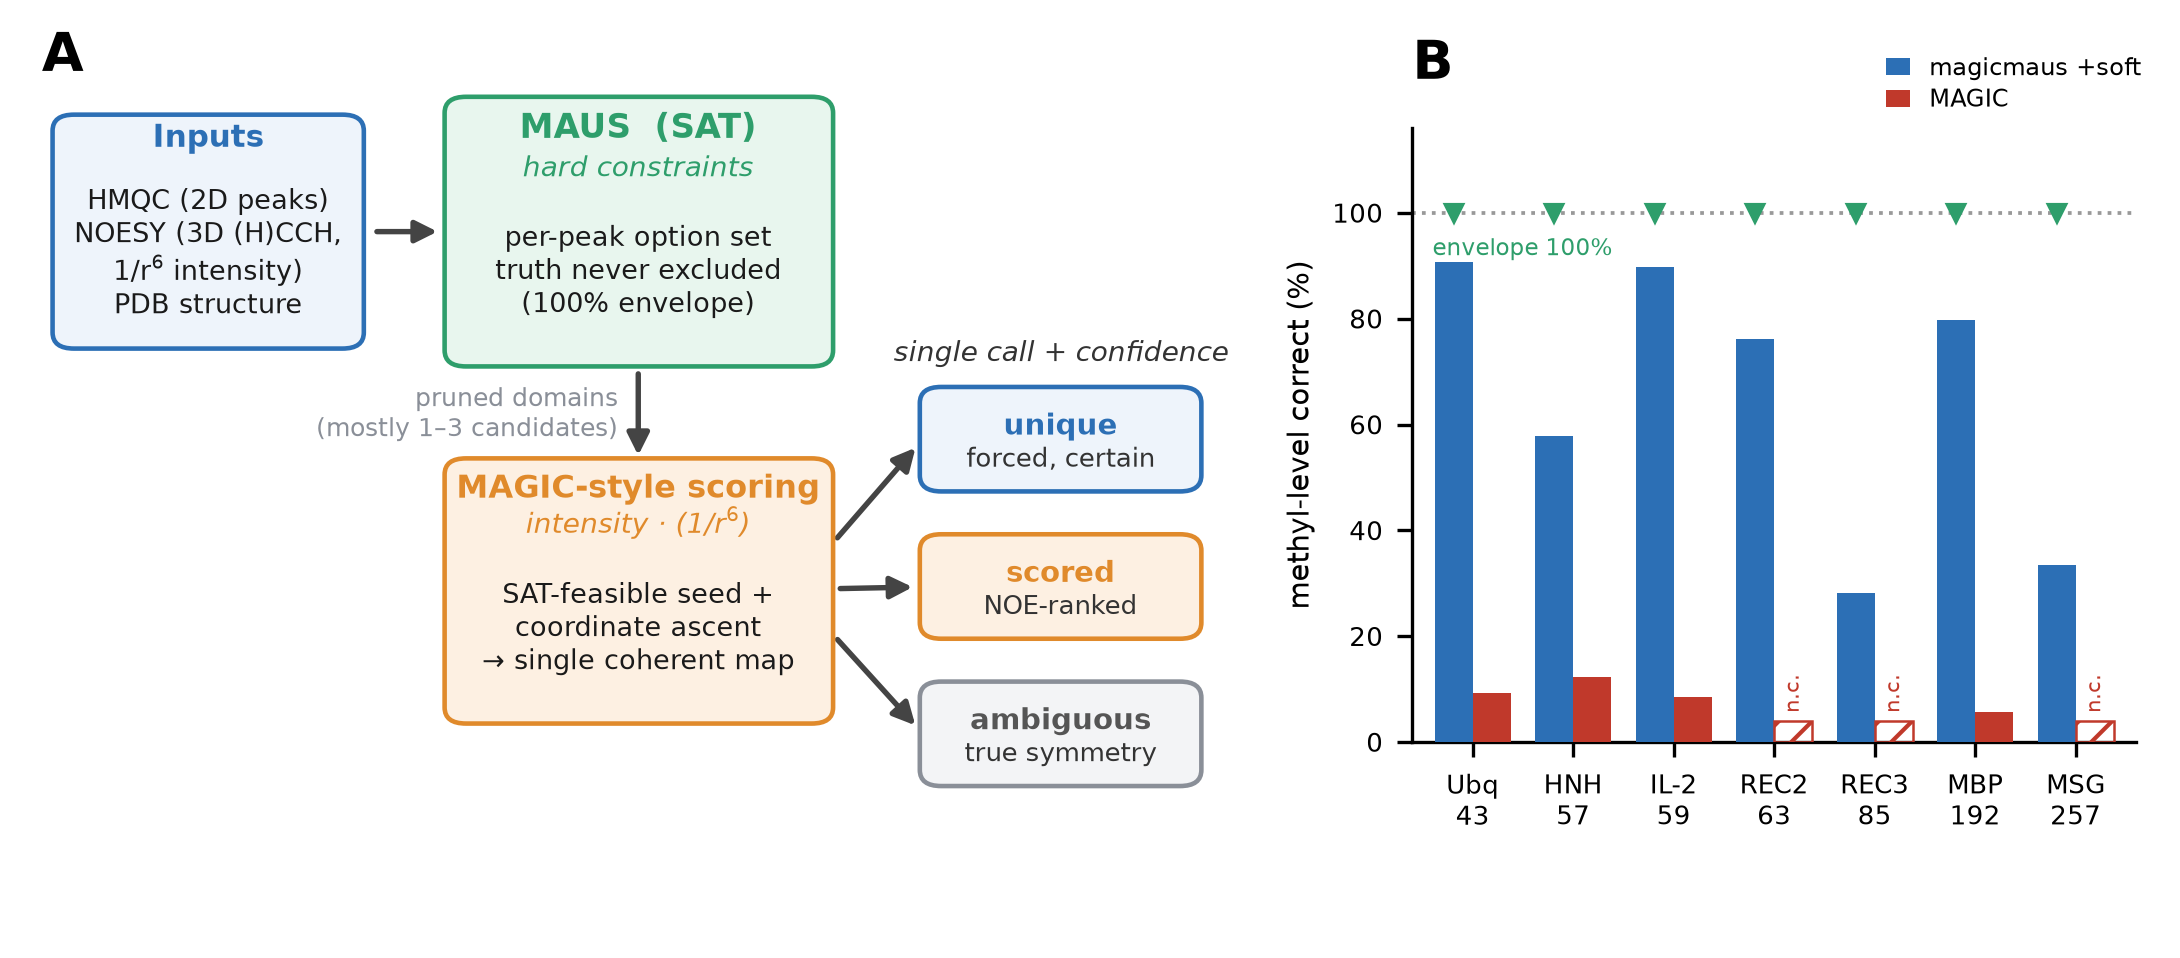
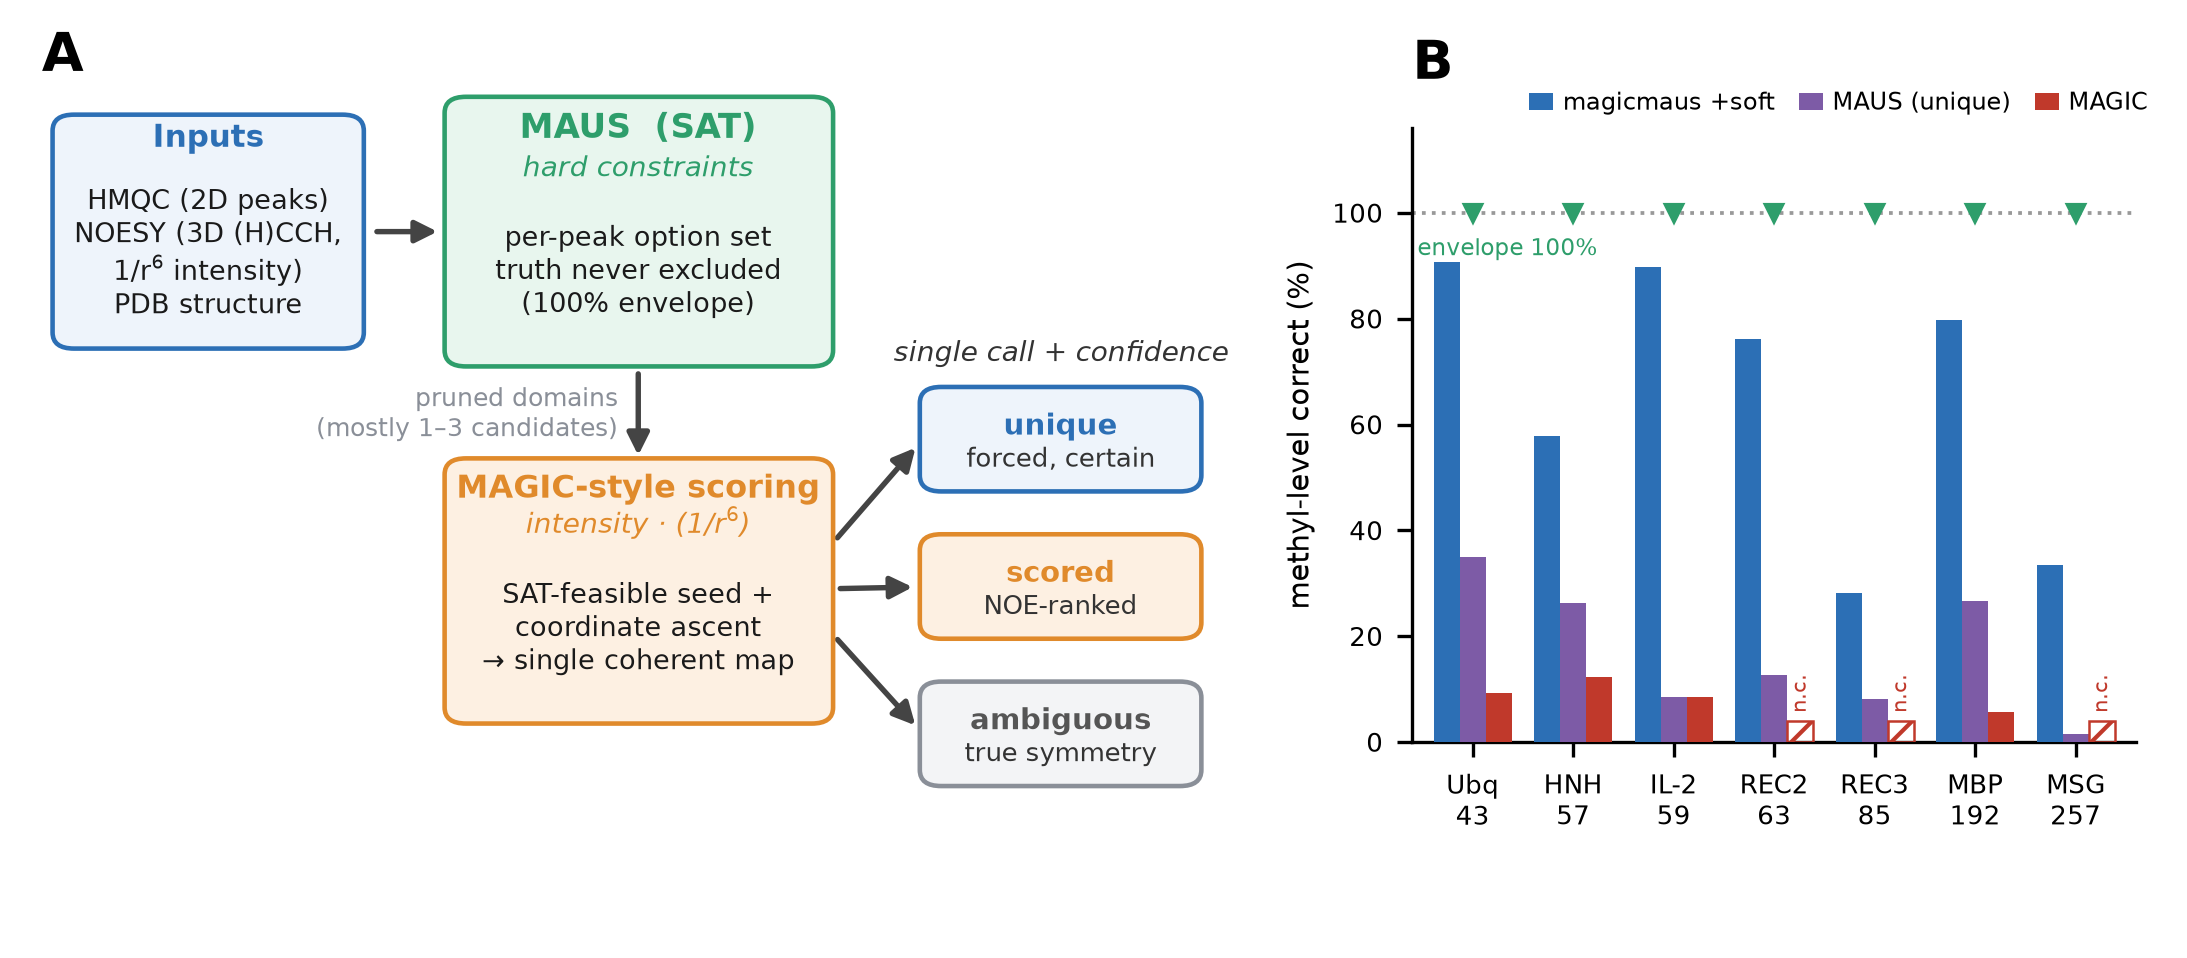
Add MAUS unique-only series to Figure 1B
Show the constraint layer's decisive fraction (MAUS unique calls, purple) as a
third bar alongside magicmaus+soft and MAGIC, so the figure makes the
SAT-bounds-vs-full-space contrast explicit. Caption updated.

diff --git a/make_figure.py b/make_figure.py
@@ -11,6 +11,7 @@ gsA = fig.add_axes([0.015, 0.02, 0.55, 0.96]); gsA.axis('off'); gsA.set_xlim(0, 
 axB = fig.add_axes([0.655, 0.22, 0.335, 0.66])
 
 BLUE, GREEN, ORANGE, GREY, RED = '#2c6fb5', '#2e9e6b', '#e08a2b', '#8a8f98', '#c0392b'
+PURPLE = '#7d5ba6'
 
 
 def rect(ax, x, y, w, h, fc, ec):
@@ -61,29 +62,30 @@ tierbox(gsA, 7.55, 1.65, 2.25, 1.05, 'ambiguous', 'true symmetry', '#f3f4f6', GR
 arrow(gsA, 6.75, 4.3, 7.5, 5.45); arrow(gsA, 6.75, 3.8, 7.5, 3.82); arrow(gsA, 6.75, 3.3, 7.5, 2.2)
 
 # --- Panel B: seven-target benchmark (same intensity NOESY) ---
-# (target, methyls, MAGIC%, magicmaus+soft%, MAGIC-converged)
+# (target, methyls, MAGIC%, MAUS-unique%, magicmaus+soft%, MAGIC-converged)
 DATA = [
-  ('Ubq', 43, 9.3, 90.7, True),
-  ('HNH', 57, 12.3, 57.9, True),
-  ('IL-2', 59, 8.5, 89.8, True),
-  ('REC2', 63, None, 76.2, False),
-  ('REC3', 85, None, 28.2, False),
-  ('MBP', 192, 5.7, 79.7, True),
-  ('MSG', 257, None, 33.5, False),
+  ('Ubq', 43, 9.3, 34.9, 90.7, True),
+  ('HNH', 57, 12.3, 26.3, 57.9, True),
+  ('IL-2', 59, 8.5, 8.5, 89.8, True),
+  ('REC2', 63, None, 12.7, 76.2, False),
+  ('REC3', 85, None, 8.2, 28.2, False),
+  ('MBP', 192, 5.7, 26.6, 79.7, True),
+  ('MSG', 257, None, 1.6, 33.5, False),
 ]
 x = range(len(DATA))
-w = 0.38
-for i, (_lab, _n, mg, mm, conv) in enumerate(DATA):
-  axB.bar(i - w / 2, mm, width=w, color=BLUE, zorder=3)
+w = 0.26
+for i, (_lab, _n, mg, ma, mm, conv) in enumerate(DATA):
+  axB.bar(i - w, mm, width=w, color=BLUE, zorder=3)
+  axB.bar(i, ma, width=w, color=PURPLE, zorder=3)
   if conv:
-    axB.bar(i + w / 2, mg, width=w, color=RED, zorder=3)
+    axB.bar(i + w, mg, width=w, color=RED, zorder=3)
   else:
-    axB.bar(i + w / 2, 4.0, width=w, color='none', edgecolor=RED, hatch='///', lw=0.6, zorder=3)
-    axB.text(i + w / 2, 5.5, 'n.c.', ha='center', fontsize=5.0, color=RED, rotation=90, va='bottom')
-  axB.plot(i - w / 2, 100, marker='v', ms=4, color=GREEN, zorder=4)
+    axB.bar(i + w, 4.0, width=w, color='none', edgecolor=RED, hatch='///', lw=0.6, zorder=3)
+    axB.text(i + w, 5.5, 'n.c.', ha='center', fontsize=5.0, color=RED, rotation=90, va='bottom')
+  axB.plot(i, 100, marker='v', ms=4, color=GREEN, zorder=4)
 axB.axhline(100, ls=':', lw=0.9, color='#999', zorder=1)
 # 'envelope = 100%' below the line on the left, clear of the markers on the line
-axB.text(-0.4, 92, 'envelope 100%', ha='left', fontsize=5.6, color='#2e9e6b')
+axB.text(-0.55, 92, 'envelope 100%', ha='left', fontsize=5.6, color='#2e9e6b')
 axB.set_ylim(0, 116); axB.set_xlim(-0.6, len(DATA) - 0.4)
 axB.set_xticks(list(x))
 axB.set_xticklabels([f'{lab}\n{n}' for (lab, n, *_ ) in DATA], fontsize=5.6)
@@ -93,10 +95,11 @@ axB.tick_params(labelsize=6.2)
 # 'B' label and legend on a clear top band, well above the axes (no title collision)
 axB.text(-0.6, 128, 'B', fontsize=13, weight='bold', va='center')
 axB.bar(-9, 0, color=BLUE, label='magicmaus +soft')
+axB.bar(-9, 0, color=PURPLE, label='MAUS (unique)')
 axB.bar(-9, 0, color=RED, label='MAGIC')
-axB.legend(loc='lower right', fontsize=5.8, frameon=False, ncol=1,
-           bbox_to_anchor=(1.02, 1.01), handlelength=1.0, labelspacing=0.3,
-           borderaxespad=0.0)
+axB.legend(loc='lower right', fontsize=5.8, frameon=False, ncol=3,
+           bbox_to_anchor=(1.03, 1.005), handlelength=1.0, columnspacing=1.0,
+           handletextpad=0.4, borderaxespad=0.0)
 
 fig.savefig('figure1.png', dpi=300, bbox_inches='tight', facecolor='white')
 print('wrote figure1.png')

diff --git a/manuscript.md b/manuscript.md
@@ -306,6 +306,7 @@ feasibility-preserving coordinate ascent, commits to a single coherent map with 
 per-peak confidence tier (unique / scored / ambiguous). (**B**) Methyl-level
 accuracy across the seven benchmark targets (43–257 methyls, ordered by size),
 all engines scored on the same 1/r^6^ intensity NOESY: magicmaus (+soft, blue)
-versus full-space MAGIC (red; hatched *n.c.* where scoring did not converge within
-a 15-min budget). Green markers denote the 100% truth-in-envelope guarantee,
+versus MAUS unique-only calls (purple; the constraint layer's decisive fraction,
+abstaining elsewhere) and full-space MAGIC (red; hatched *n.c.* where scoring did
+not converge within a 15-min budget). Green markers denote the 100% truth-in-envelope guarantee,
 preserved on every target.](figure1.png)